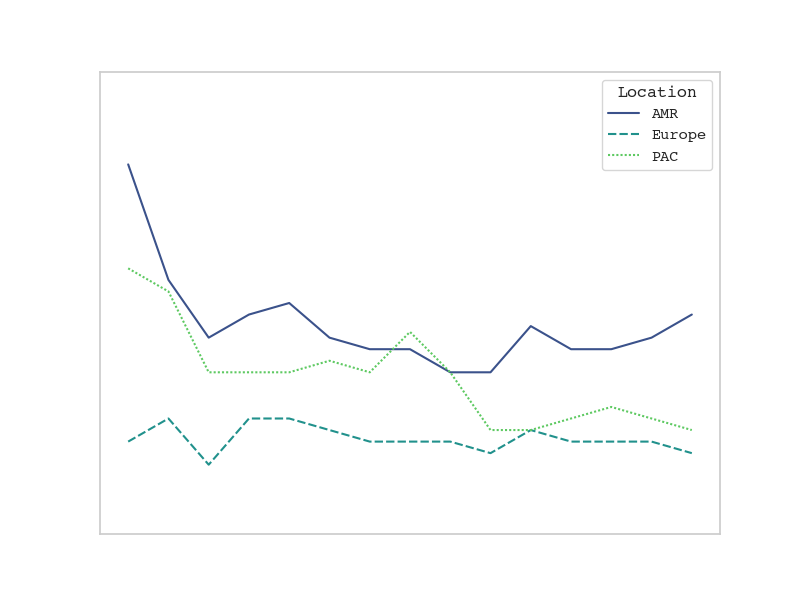
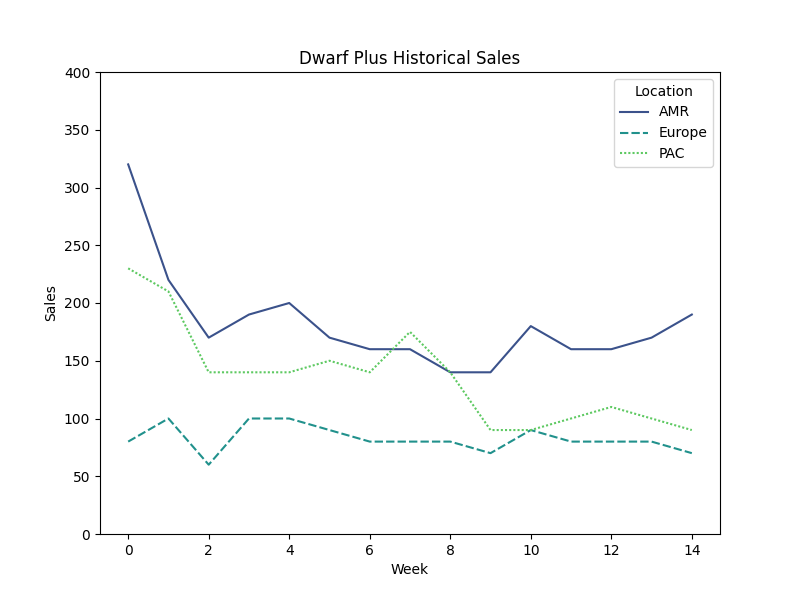
edited routes

diff --git a/app/utils/case2.py b/app/utils/case2.py
@@ -95,6 +95,9 @@ def allocate(a_df, protect_list):
     wk1_builds = csv_to_df(csv_path, 'Wk1 Builds') #builds at week 2
     cpd_df = csv_to_df(csv_path, 'plus_demand', transpose=True) #cumulative demand for all venders of plus
 
+    #drop reseller partners column
+    cpd_df = cpd_df.drop('Reseller Partners', axis=1)
+
     #find amt of material/protect TOCHANGE  find it at the given week instead
     total_material = a_df.iloc[0, -1] 
     total_protect = 0
@@ -126,7 +129,10 @@ def allocate(a_df, protect_list):
     total_allocation.reset_index(inplace=True)
     total_allocation.rename(columns={'index': 'Weeks'}, inplace=True)
 
-    return total_allocation
+    sp_allocation.reset_index(inplace=True)
+    sp_allocation.rename(columns={'index': 'Weeks'}, inplace=True)
+
+    return sp_allocation
 a_df = csv_to_df(csv_path, 'Material A supply') # amount of supply
 
 

diff --git a/app/utils/allocate_supply.py b/app/utils/allocate_supply.py
@@ -41,6 +41,7 @@ def allocate_supply(demand_df, supply_df,protect_list):
                 else:
                     to_allocate = max(weekly_supply * (product_demand / weekly_demand), 0)
                     to_allocate = min(to_allocate, product_demand)
+                    to_allocate = round(to_allocate)
                     allocation_df.at[week, column] = to_allocate + (allocation_df.at[prev_week, column] if prev_week else 0)
             #remaining supply
             remaining_supply[i] = weekly_supply - allocation_df.loc[week].sum() + protected_allocation.loc[week].sum()

diff --git a/app/utils/case1_visualizations.py b/app/utils/case1_visualizations.py
@@ -77,7 +77,6 @@ dwarf_price = 120
 #create_heatmap(find_monthly_average(princess_df), 'rocket', 'Princess Plus Monthly Sales', "app/static/images/princess_heatmap.png")
 #create_heatmap(find_monthly_average(dwarf_df), 'viridis', 'Dwarf Plus Monthly Sales', "app/static/images/dwarf_heatmap.png")
 
-sns.set_theme(style="whitegrid", rc={'xtick.color': 'white', 'ytick.color': 'white', 'axes.labelcolor': 'white', 'axes.titlecolor': 'white', 'font.family': 'Courier'})
 princess_df = princess_df.reset_index()
 dwarf_df = dwarf_df.reset_index()
 

diff --git a/app/utils/case2_trial.py b/app/utils/case2_trial.py
@@ -153,7 +153,6 @@ def allocate(protect_list_plus, protect_list_superman):
     total_allocation = pd.concat([s_sm_allocation, sp_allocation], axis=1)
     total_allocation.to_csv(csv_path + '/allocation.csv')
 
-# Example usage
 protect_list = [
     ['Jan Wk4', 'PAC', 35]
 ]

diff --git a/app/routes.py b/app/routes.py
@@ -7,7 +7,7 @@ main = Blueprint('main', __name__)
 
 @main.route('/')
 def home():
-    return redirect(url_for('case1'))
+    return redirect(url_for('main.page1'))
 @main.route('/case1')
 def page1():
     return render_template('case1.html') 
